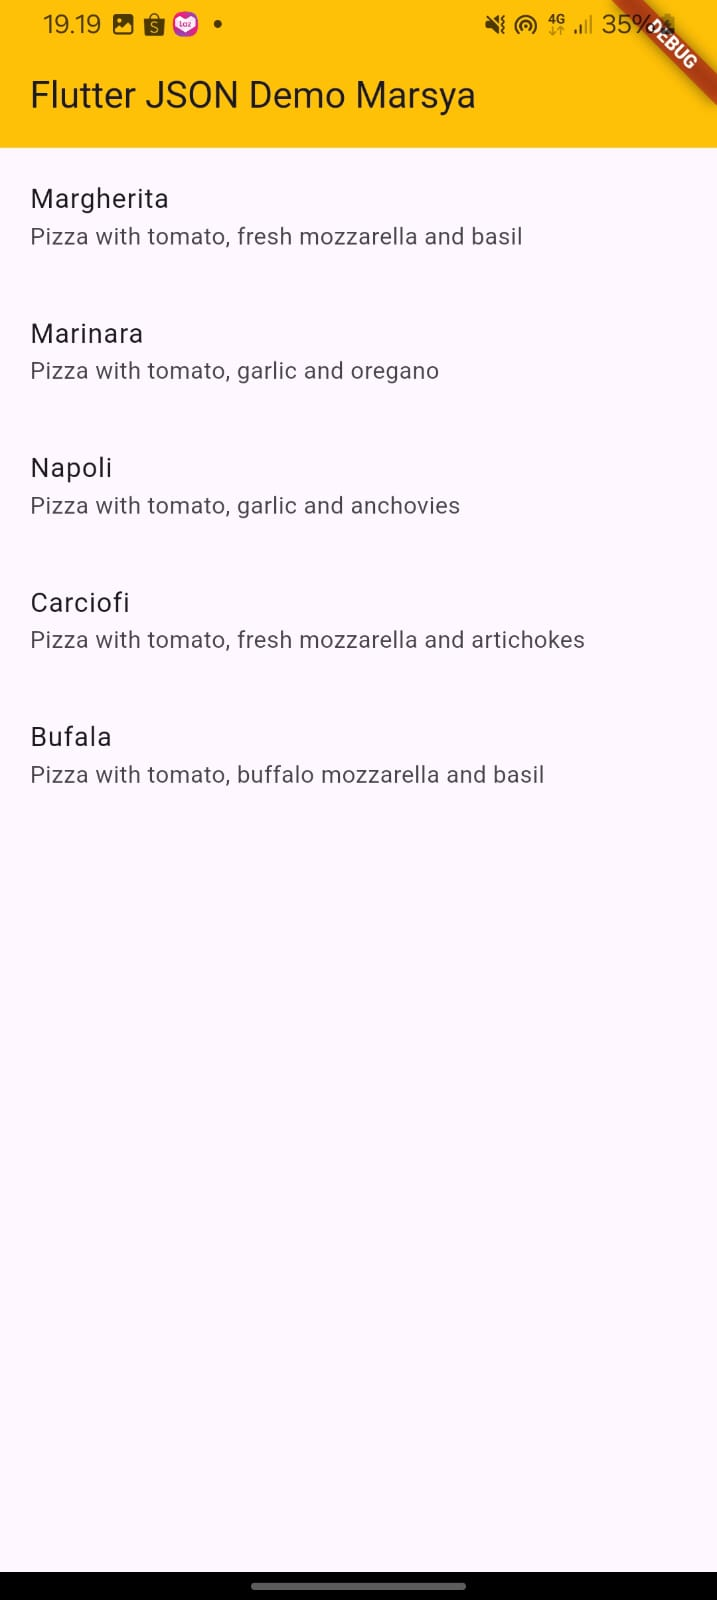
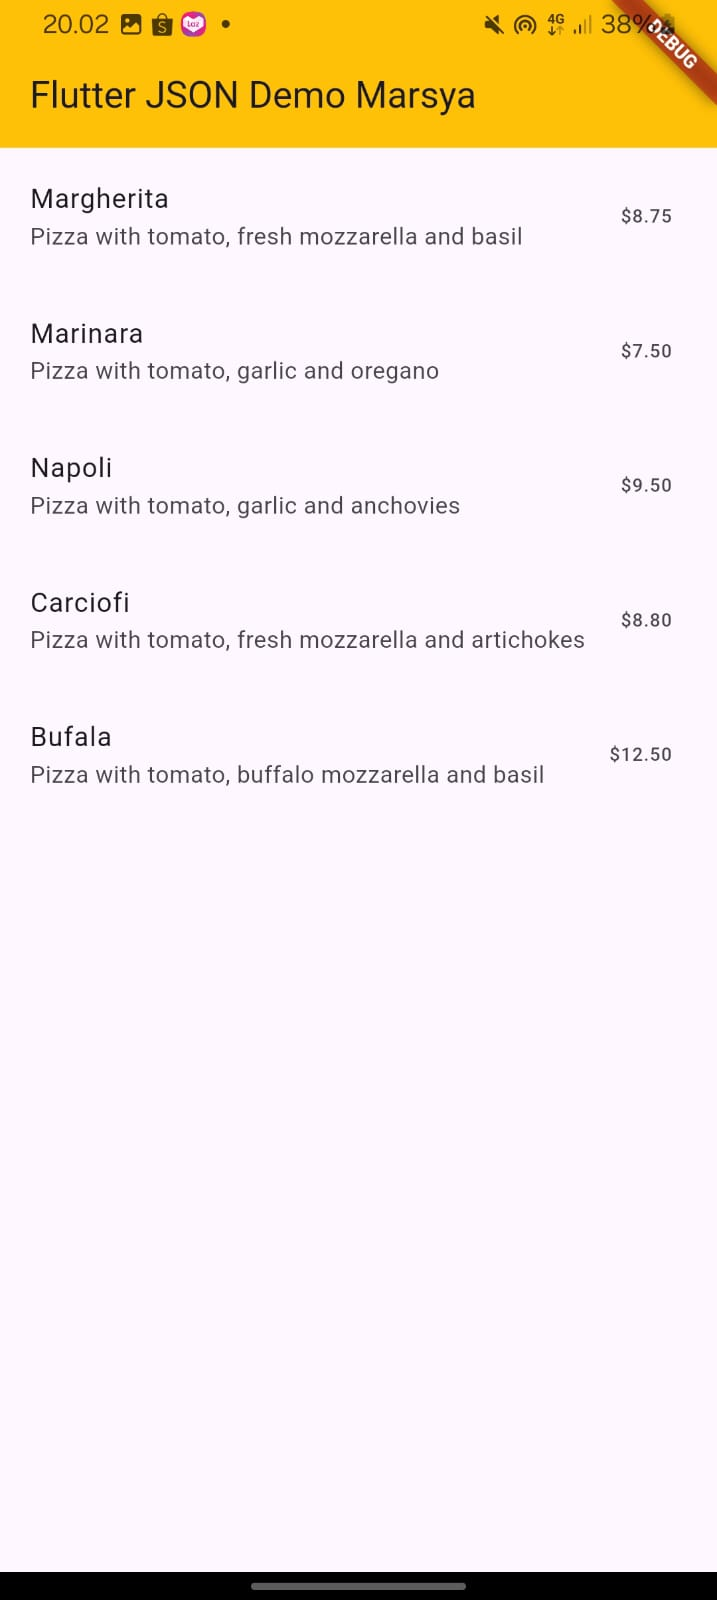
w13_praktikum2_soal4_15

diff --git a/Week13/store_data_marsya/lib/models/pizza_model.dart b/Week13/store_data_marsya/lib/models/pizza_model.dart
@@ -6,11 +6,11 @@ class Pizza {
   final String imageUrl;
 
   Pizza.fromJson(Map<String, dynamic> json)
-      : id = json['id'],
-        pizzaName = json['pizzaName'],
-        description = json['description'],
-        price = json['price'],
-        imageUrl = json['imageUrl'];
+      : id = int.tryParse(json['id'].toString()) ?? 0,
+        pizzaName = json['pizzaName'] != null ? json['pizzaName'].toString() : 'No name',
+        description = json['description'] != null ? json['description'].toString() : '',
+        price = double.tryParse(json['price'].toString()) ?? 0,
+        imageUrl = json['imageUrl'] ?? '';
 
   Map<String, dynamic> toJson() {
     return {

diff --git a/Week13/store_data_marsya/lib/main.dart b/Week13/store_data_marsya/lib/main.dart
@@ -72,6 +72,7 @@ class _MyHomePageState extends State<MyHomePage> {
           return ListTile(
             title: Text(myPizzas[index].pizzaName),
             subtitle: Text(myPizzas[index].description),
+            trailing: Text('\$${myPizzas[index].price.toStringAsFixed(2)}'),
           );
         },
       ),

diff --git a/Week13/README.md b/Week13/README.md
@@ -34,3 +34,14 @@ List objek Pizza dikonversi menjadi JSON String
 
 ![Debug konsole konversi Json](./store_data_marsya/img/P1.png)
 
+# Praktikum 2 : Handle kompatibilitas data JSON
+
+# Soal 4 
+
+Capture hasil running aplikasi 
+
+![Hasil Praktikum 2](./store_data_marsya/img/Praktikum%202.jpg)
+
+Tidak ada data null yang ditampilkan
+
+
